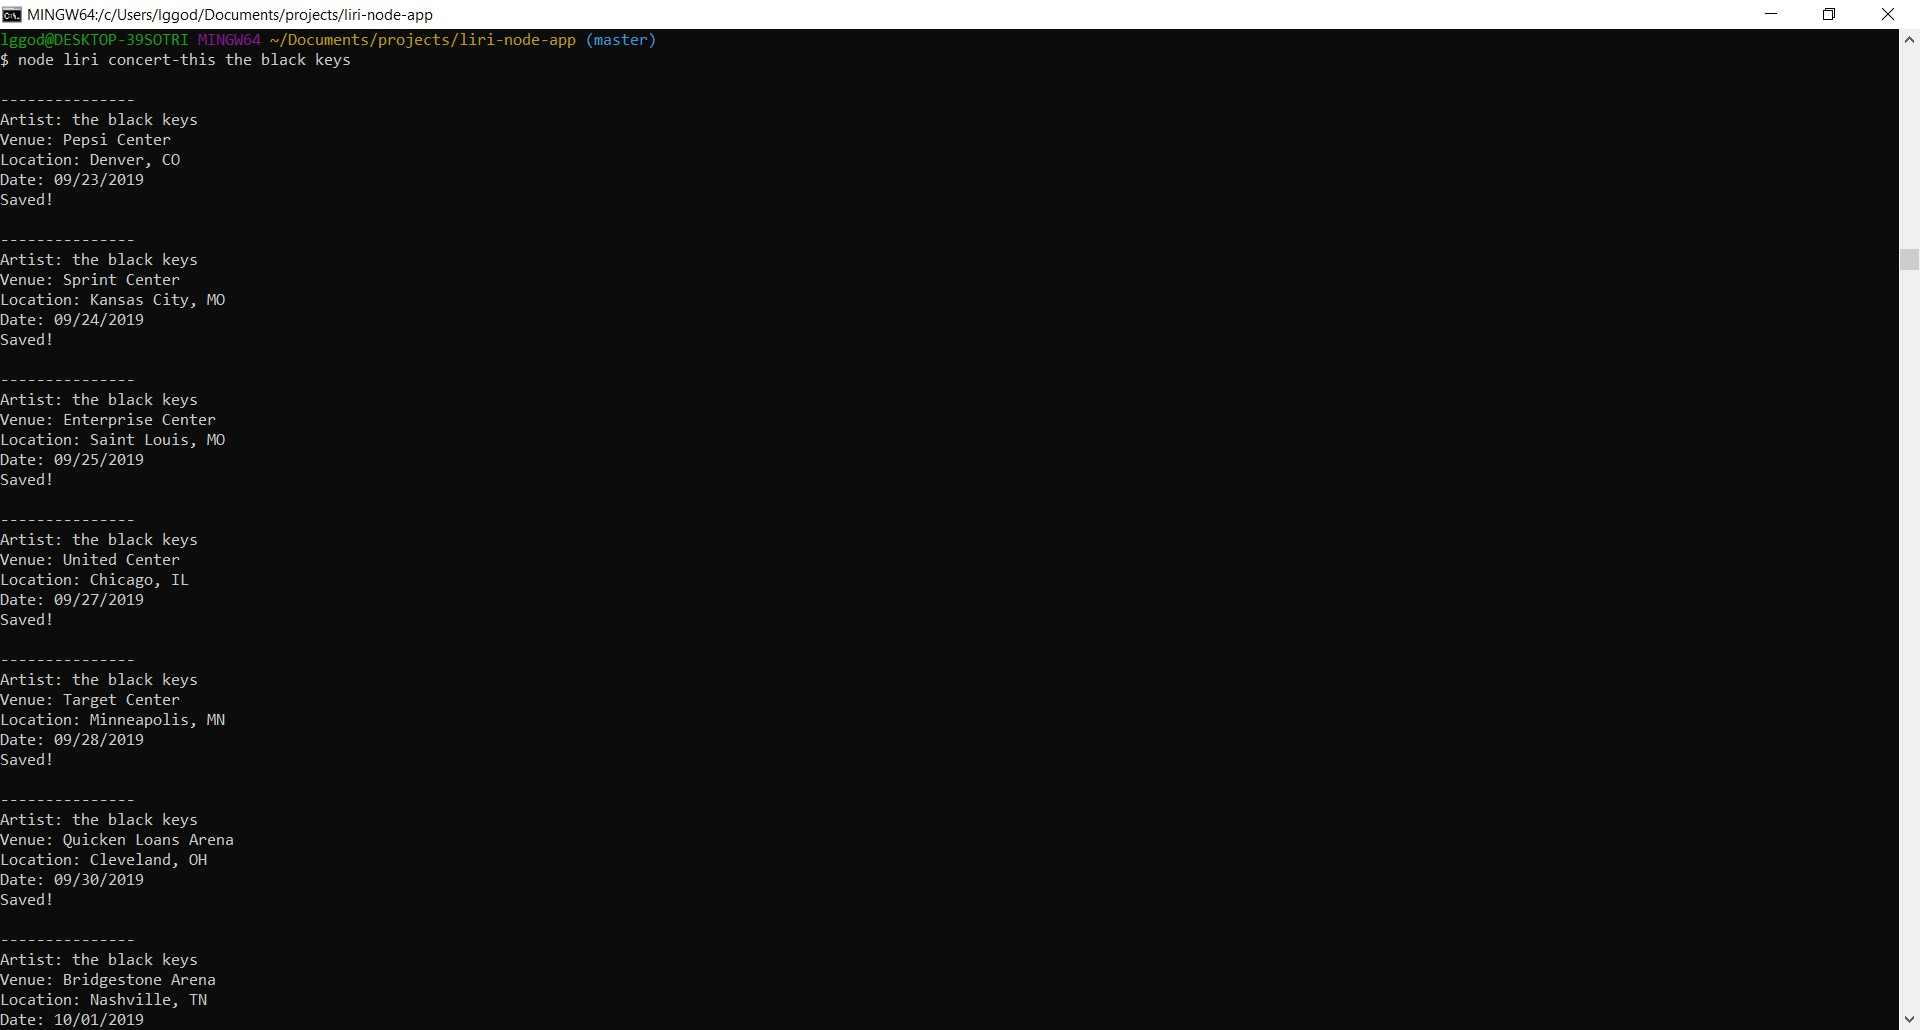
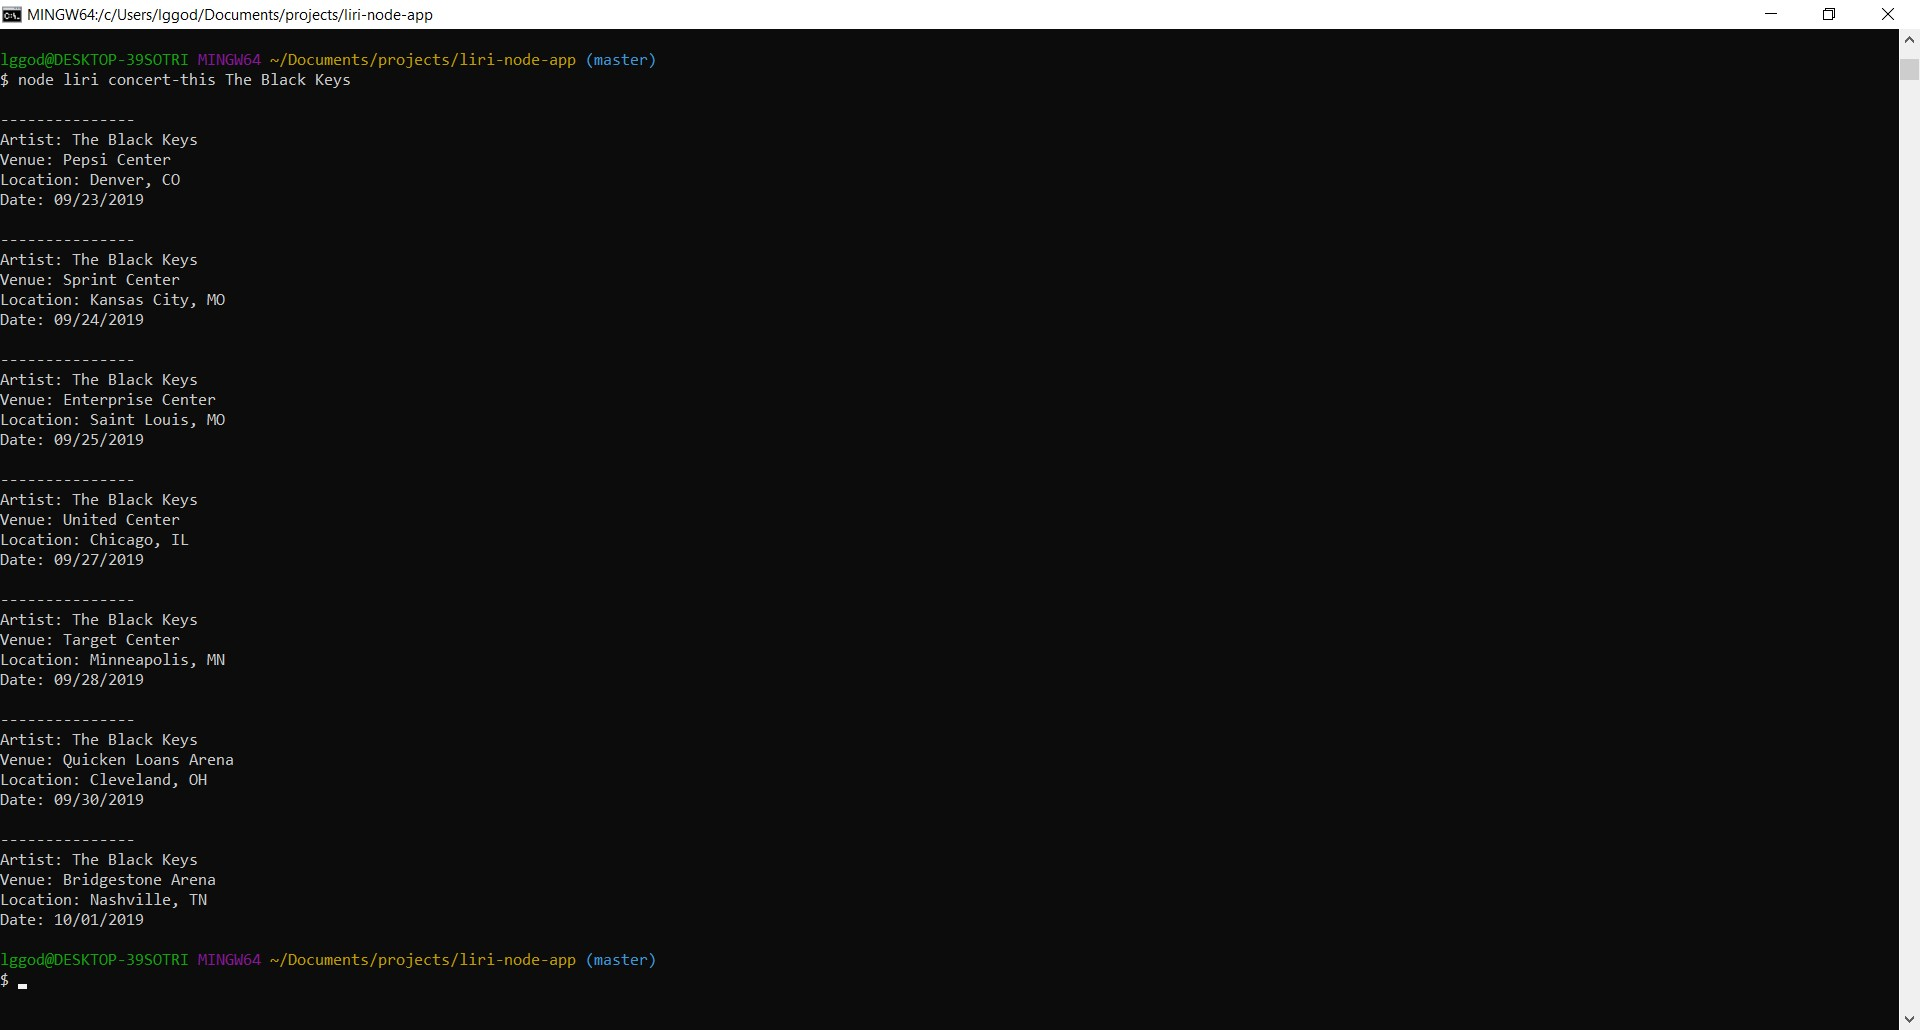
updated Black Keys image

diff --git a/liri.js b/liri.js
@@ -55,7 +55,6 @@ function concertThis(thingToDo) {
             fs.appendFileSync('log.txt', "\r\n" + venue);
             fs.appendFileSync('log.txt', "\r\n" + city);
             fs.appendFileSync('log.txt', "\r\n" + newDate);
-            console.log('Saved!');
         }
     })
 }
